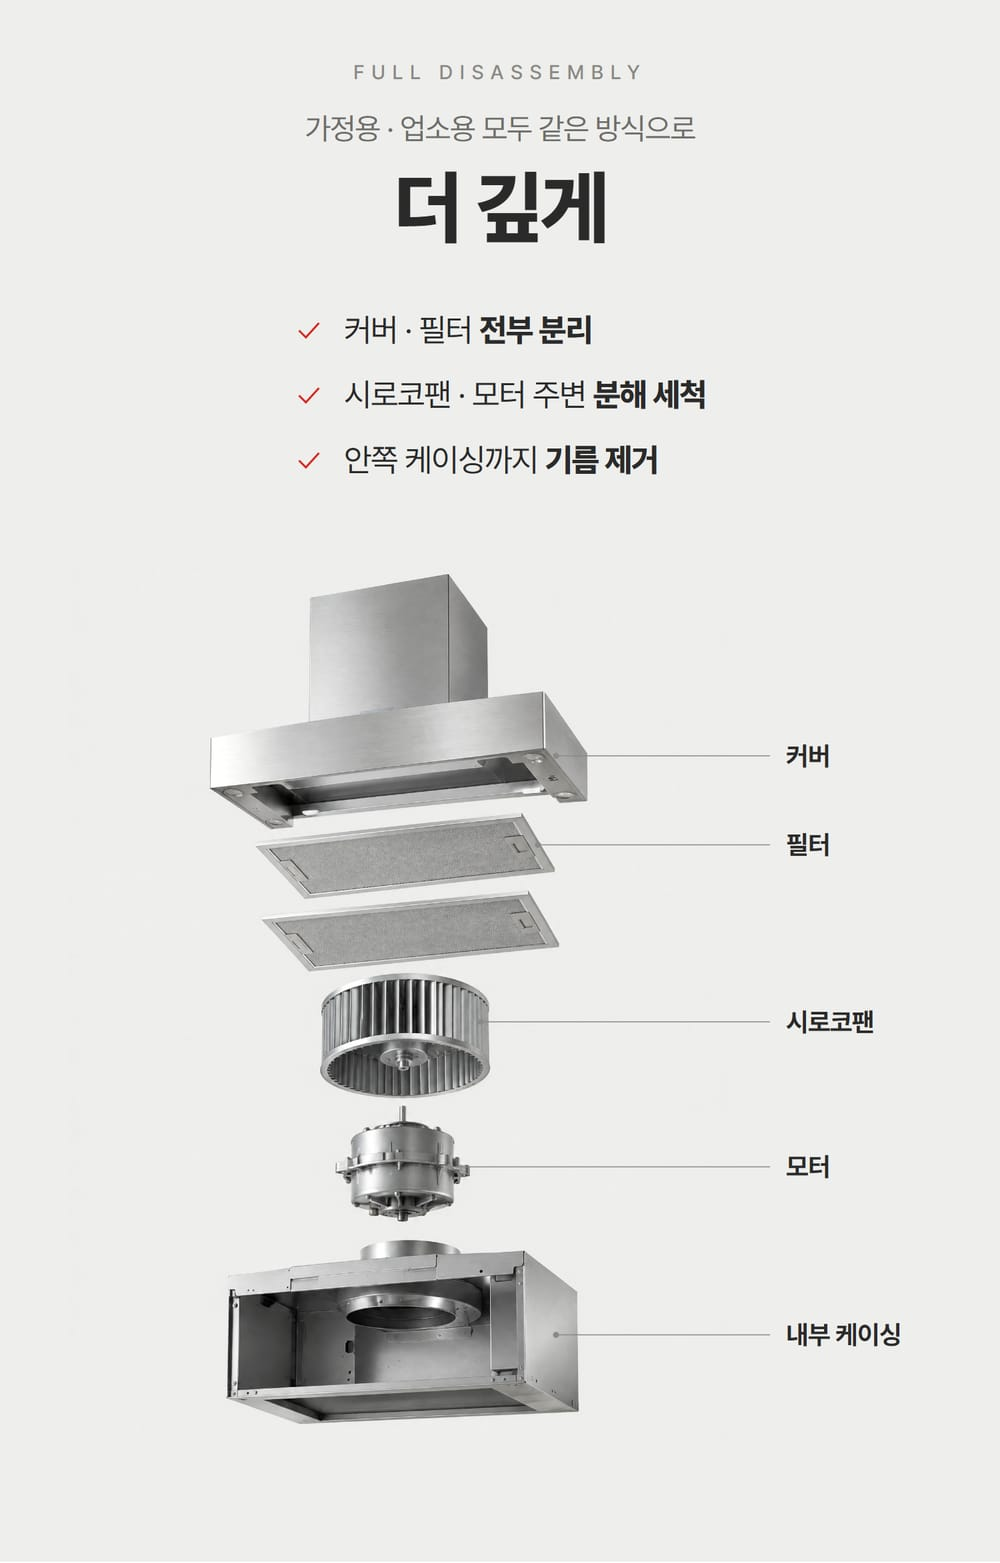
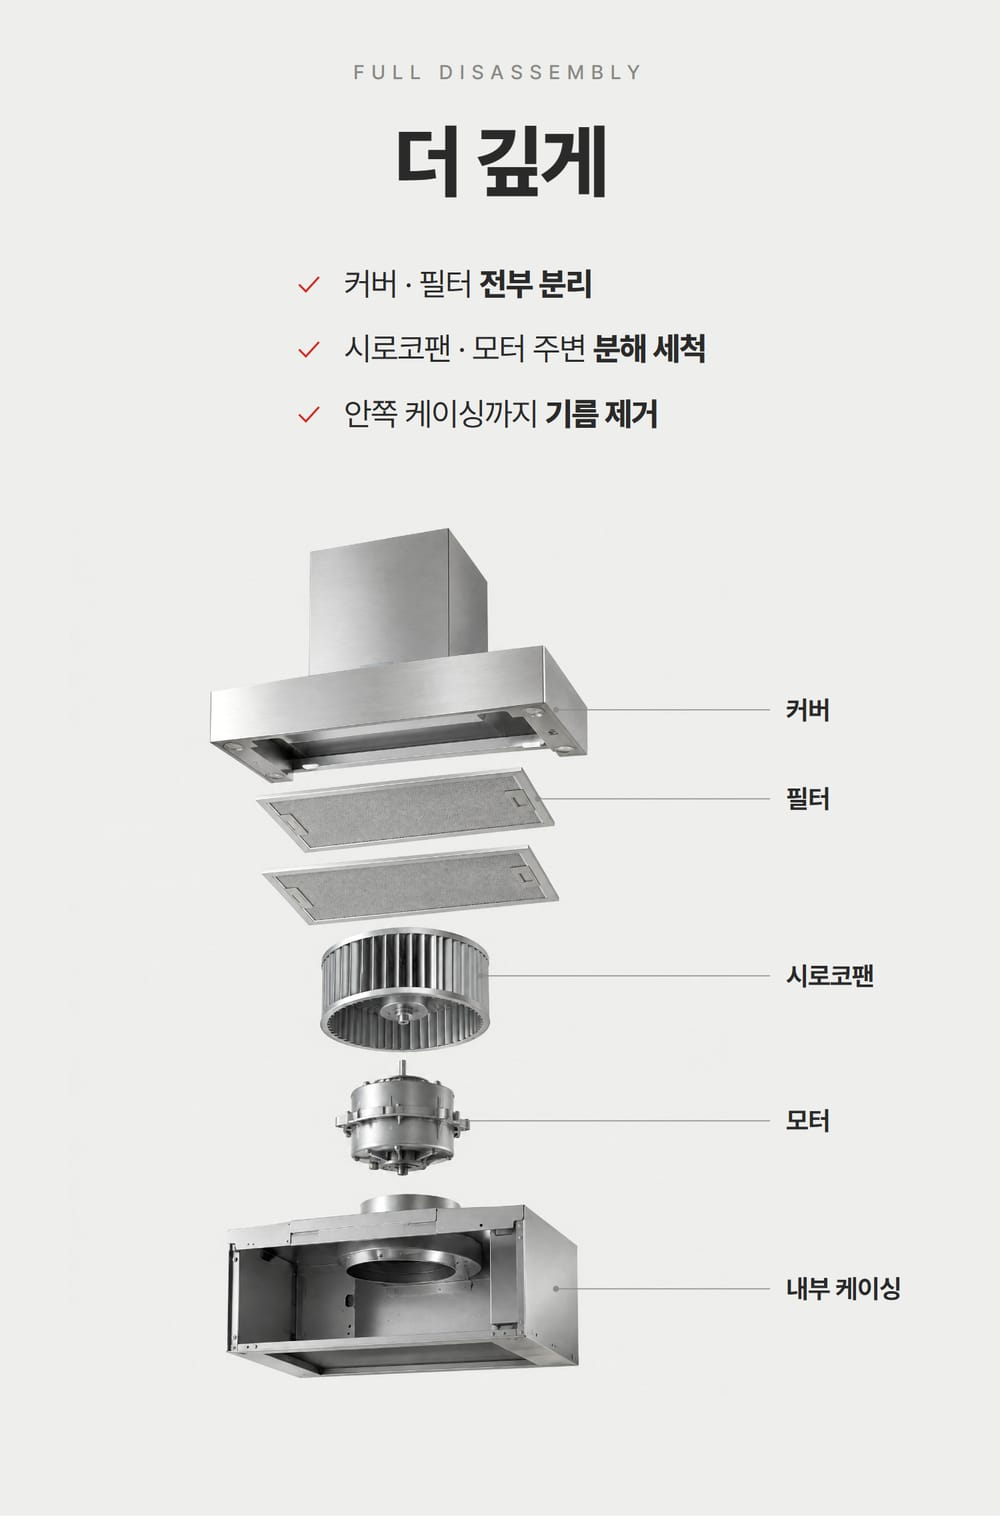
fix: 주방후드 랜딩 s6·s7 가정용 연결 문구 삭제

diff --git a/public/hood.html b/public/hood.html
@@ -152,8 +152,8 @@ footer b{color:var(--ink)}
 </a>
 
 <div class="sec" data-img="img/hood/s5.jpg" data-alt="영업은 그대로, 후드는 깨끗하게. 야간 작업 추가금 0원, 영업 중단 0시간, 업소용 시작가 19.8만원~ (VAT 별도)" data-label="S5 업소용 큰 숫자"></div>
-<div class="sec" data-img="img/hood/s6.jpg" data-alt="이런 주방에서 저희를 부릅니다. 식당, 카페, 급식소, 학교, 병원, 리조트. 가정집 후드도 같은 팀이 같은 방식으로 합니다" data-label="S6 이런 주방에서 부릅니다"></div>
-<div class="sec" data-img="img/hood/s7.jpg" data-alt="더 깊게. 가정용 · 업소용 모두 같은 방식으로. 커버·필터 전부 분리, 시로코팬·모터 주변 분해 세척, 안쪽 케이싱까지 기름 제거" data-label="S7 더 깊게"></div>
+<div class="sec" data-img="img/hood/s6.jpg" data-alt="이런 주방에서 저희를 부릅니다. 식당, 카페, 급식소, 학교, 병원, 리조트" data-label="S6 이런 주방에서 부릅니다"></div>
+<div class="sec" data-img="img/hood/s7.jpg" data-alt="더 깊게. 커버·필터 전부 분리, 시로코팬·모터 주변 분해 세척, 안쪽 케이싱까지 기름 제거" data-label="S7 더 깊게"></div>
 <div class="sec" data-img="img/hood/s8.jpg" data-alt="더 꼼꼼하게. 세척액에 담가 굳은 기름을 녹이고, 손으로 한 번 더, 조립 뒤 흡입력 확인" data-label="S8 더 꼼꼼하게"></div>
 <div class="sec" data-img="img/hood/s9.jpg" data-alt="더 확실하게. 작업 전후 사진, 추가금은 작업 전에만, 작동 확인 후 결제" data-label="S9 더 확실하게"></div>
 <div class="sec" data-img="img/hood/s10.jpg" data-alt="낡은 후드는 새 후드로. 후드 설치 · 교체, 현장 확인 후 견적" data-label="S10 후드 설치 · 교체"></div>

diff --git a/design/hood/sections/s6.html b/design/hood/sections/s6.html
@@ -7,9 +7,7 @@
   .s6 .grid div:nth-child(3n+2), .s6 .grid div:nth-child(3n+3) { border-left: 1px solid var(--sub); }
   .s6 .grid div:nth-child(n+4) { border-top: 1px solid var(--sub); }
   .s6 .foot { margin: 64px 90px 0; font-size: 30px; font-weight: 400; letter-spacing: -0.035em; line-height: 1.5; color: var(--text-sub); text-wrap: balance; }
-  .s6 { padding-bottom: 60px; }
-  .s6 .hr { margin: 90px 80px 0; }
-  .s6 .next { margin-top: 56px; font-size: 32px; font-weight: 700; letter-spacing: -0.035em; color: var(--ink); }
+  .s6 { padding-bottom: 70px; }
 </style></head>
 <body>
 <section class="sec s6 bg-grey">
@@ -20,7 +18,5 @@
     <div>학교</div><div>병원</div><div>리조트</div>
   </div>
   <p class="foot">작은 카페 후드부터 대형 급식소 후드까지, 크기와 개수를 보고 견적을 먼저 드립니다</p>
-  <div class="hr"></div>
-  <p class="next">가정집 후드도 같은 팀이 같은 방식으로 합니다</p>
 </section>
 </body></html>

diff --git a/design/hood/sections/s7.html b/design/hood/sections/s7.html
@@ -5,13 +5,10 @@
   .s7 { padding-top: 60px; padding-bottom: 120px; }
   .s7 .fig { width: 1000px; height: 880px; margin-top: 80px; }
   .s7 .fig img { position: absolute; left: 70px; top: 0; width: 660px; height: 880px; object-fit: cover; }
-  .s7 .both { margin-top: 26px; font-size: 30px; font-weight: 400; letter-spacing: -0.03em; color: var(--text-sub); }
-  .s7 .title { margin-top: 14px; }
 </style></head>
 <body>
 <section class="sec s7 bg-grey">
   <p class="eyebrow">FULL DISASSEMBLY</p>
-  <p class="both">가정용 · 업소용 모두 같은 방식으로</p>
   <h2 class="title">더 깊게</h2>
   <ul class="checks">
     <li><svg class="ck" viewBox="0 0 24 24"><path d="M4 12.5l5.5 5.5L20 6.5"/></svg><span>커버 · 필터 <b>전부 분리</b></span></li>
